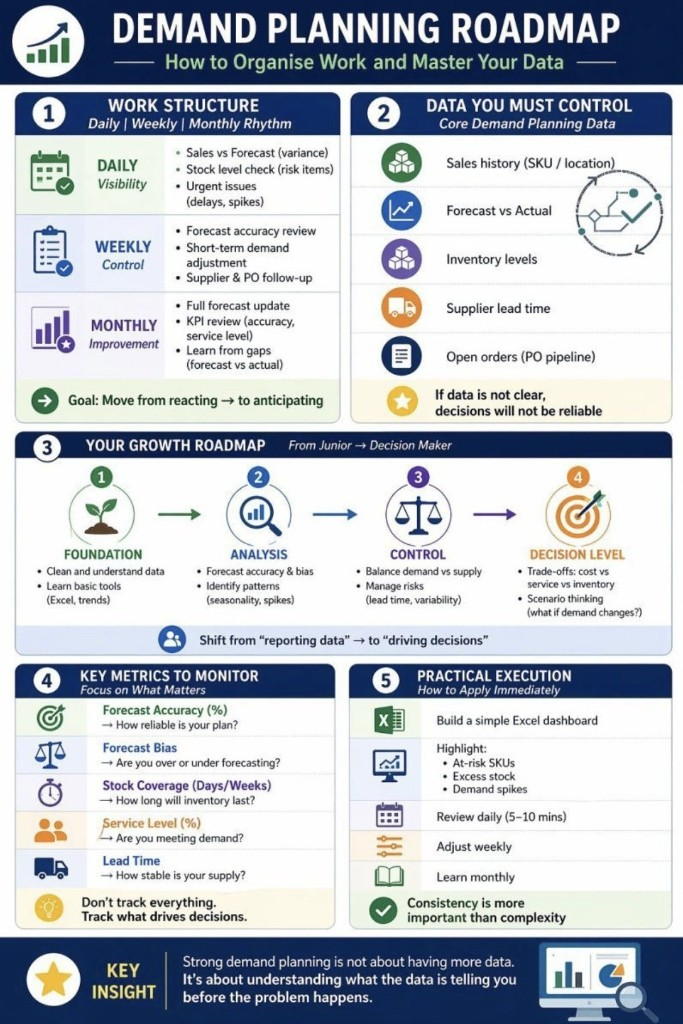
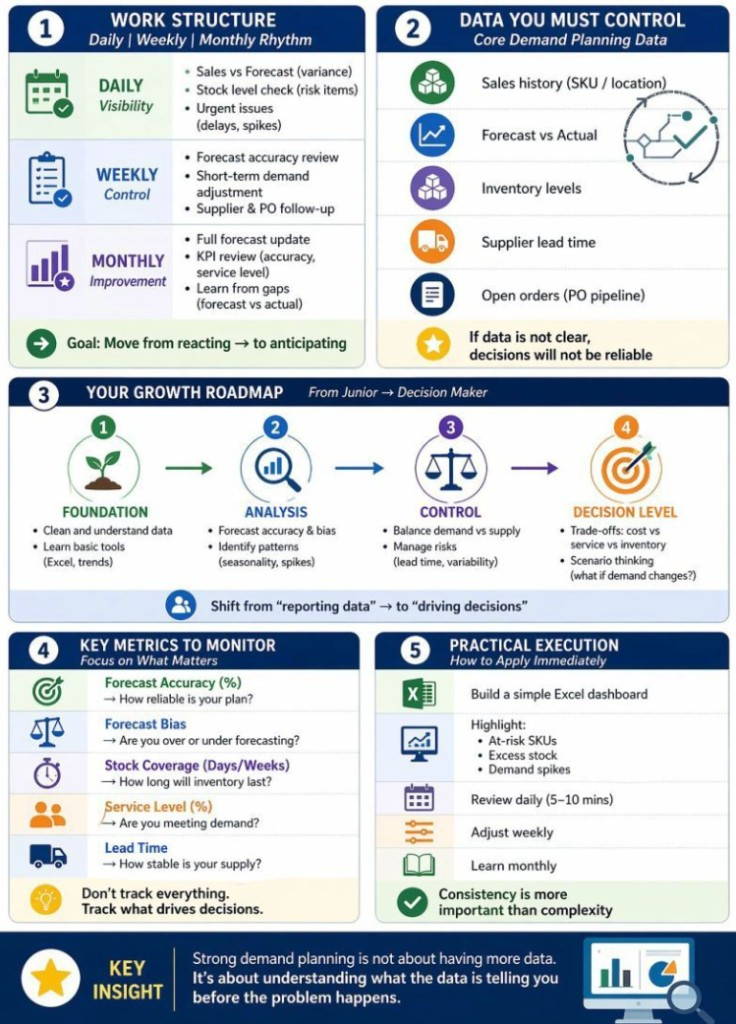
Replace toolbox image with higher quality version

diff --git a/src/index.css b/src/index.css
@@ -940,8 +940,6 @@ a:hover {
   max-width: 240px;
   height: auto;
   margin: 0 auto;
-  filter: contrast(1.22) saturate(1.35) brightness(1.04);
-  image-rendering: -webkit-optimize-contrast;
 }
 
 .site-footer {
